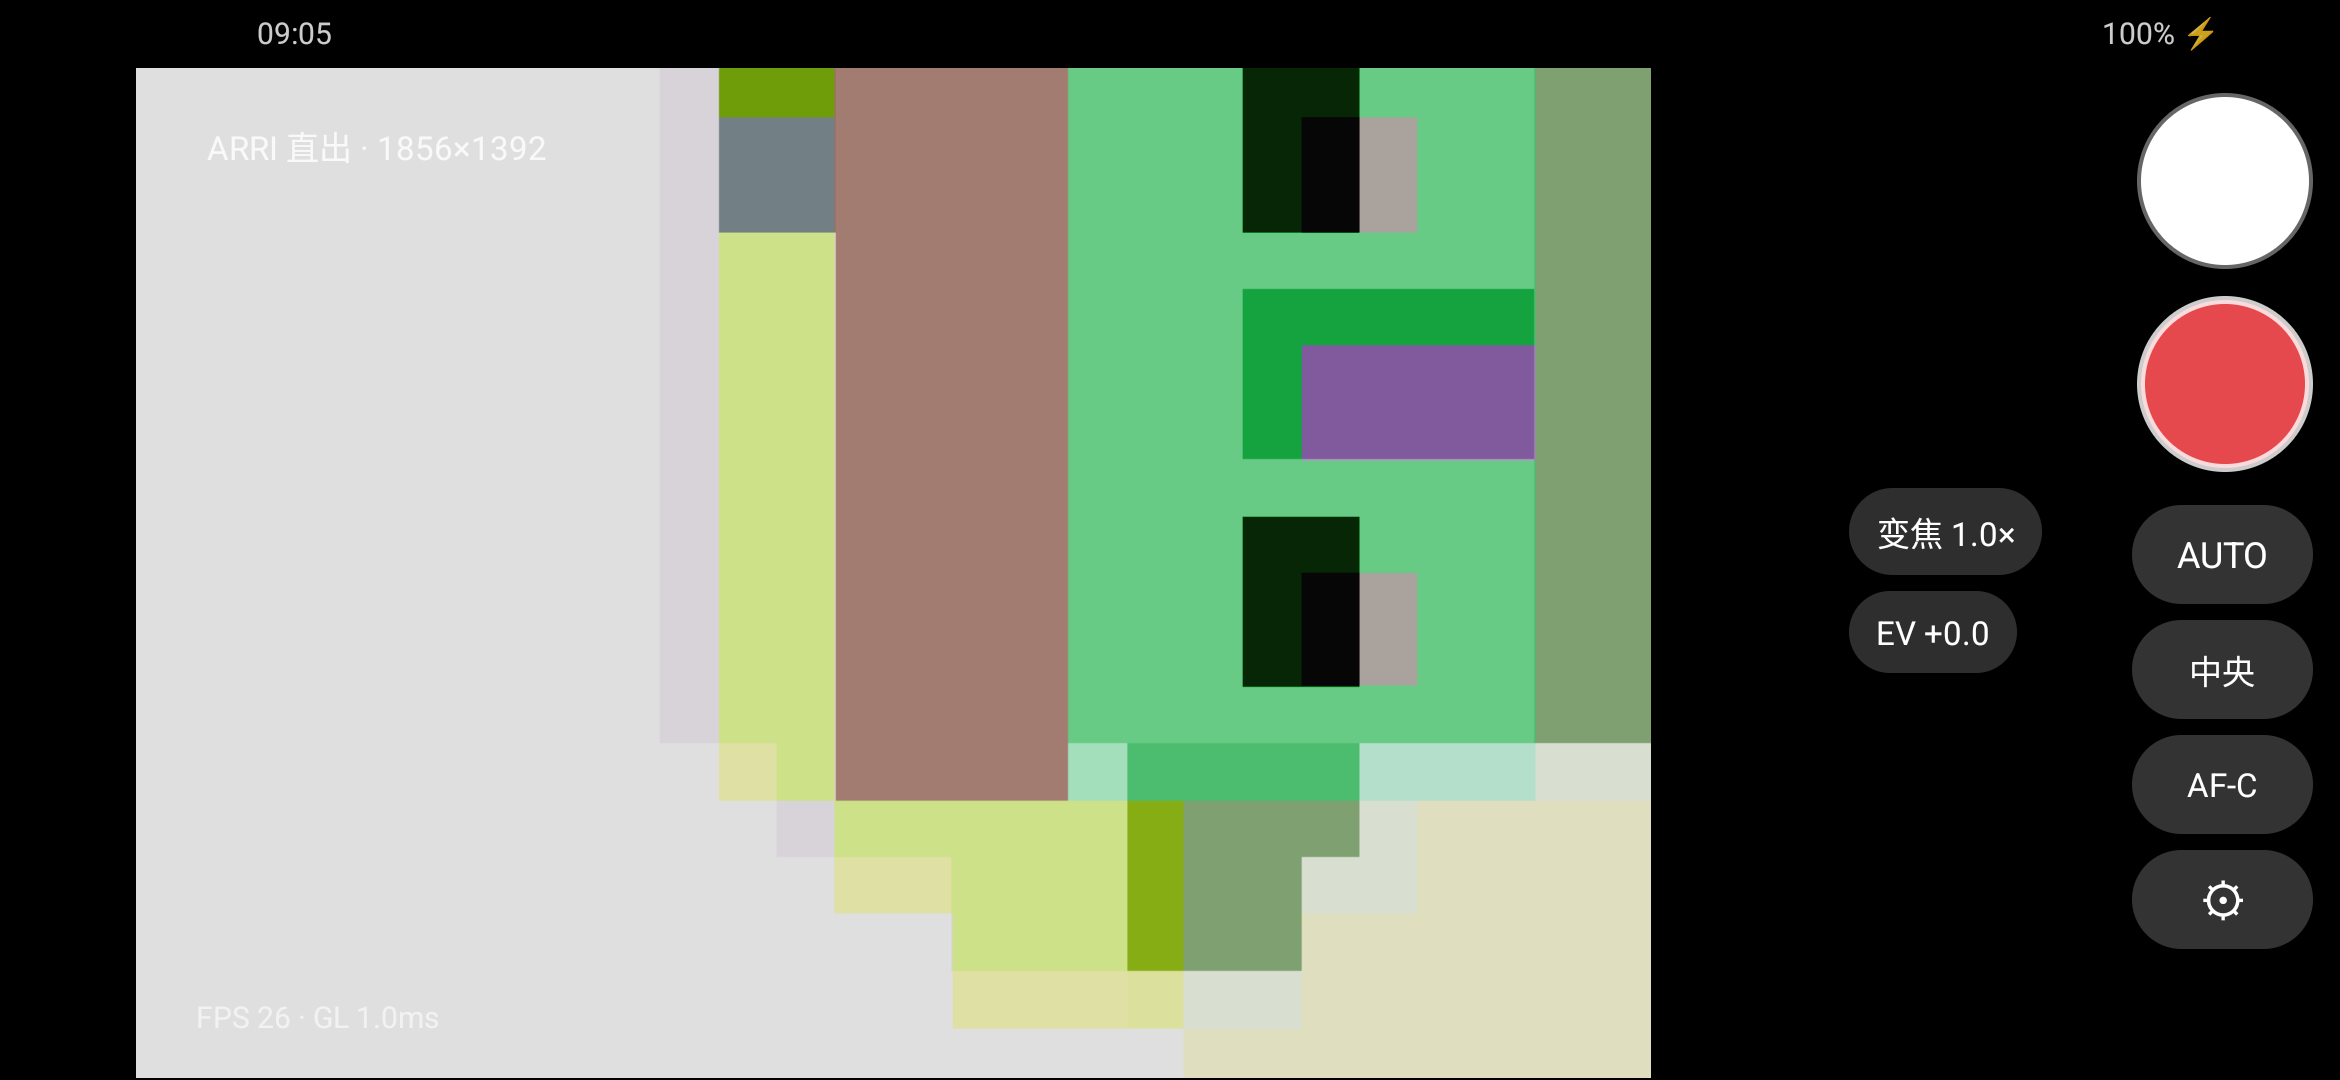
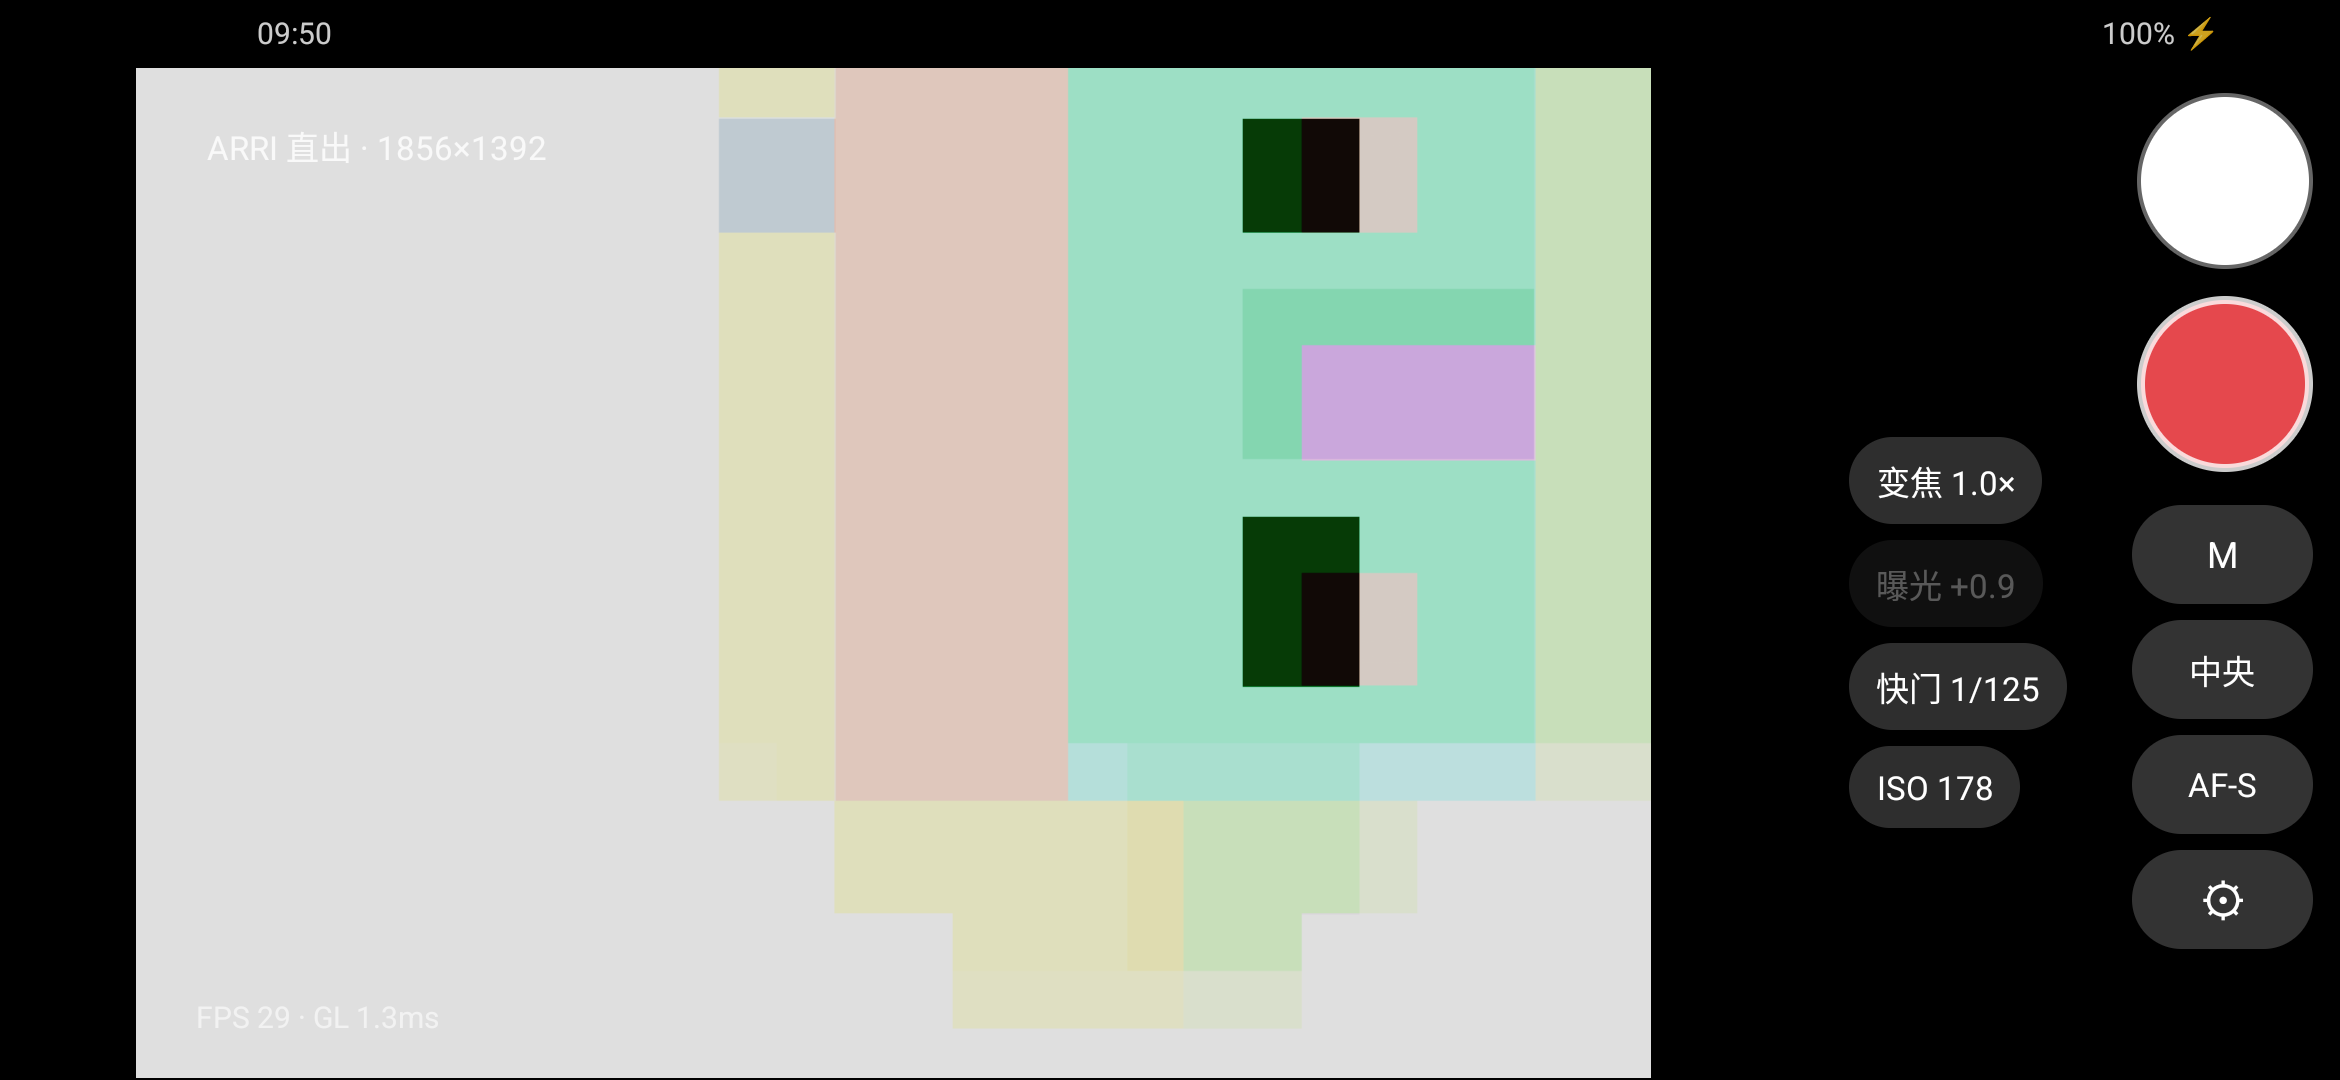
Lume: 四个数值按钮常驻（AUTO 全灰），切档不位移，MF 按钮占位不顶动下面四个

diff --git a/lume/app/src/main/java/com/magirri/lume/MainActivity.kt b/lume/app/src/main/java/com/magirri/lume/MainActivity.kt
@@ -594,7 +594,7 @@ class MainActivity : Activity() {
             textSize = 11f
             setPadding(dp(9), dp(8), dp(9), dp(8))
         }
-        mfBtn.visibility = View.GONE          // 只有 MF 档才出现
+        mfBtn.visibility = View.INVISIBLE     // 默认不可见但占位：四个按钮位置不会动
         valueCol.addView(
             mfBtn,
             LinearLayout.LayoutParams(
@@ -1008,7 +1008,7 @@ class MainActivity : Activity() {
         val f = FOCUS_MODES[focusIndex]
         camera.setFocusMode(f)
         focusBtn.text = FOCUS_NAMES[focusIndex]
-        mfBtn.visibility = if (f == CameraEngine.Focus.MF) View.VISIBLE else View.GONE
+        mfBtn.visibility = if (f == CameraEngine.Focus.MF) View.VISIBLE else View.INVISIBLE
         if (openWheelKind == MF && f != CameraEngine.Focus.MF) closeWheel()
         updateWheelButtons()
     }
@@ -1051,58 +1051,40 @@ class MainActivity : Activity() {
         }
         val c = camera.controls
 
-        zoomBtn.visibility = View.VISIBLE
-        zoomBtn.alpha = if (c.hasZoom) 1f else 0.35f
-        zoomDial.isEnabled = c.hasZoom
+        // 四个数值按钮**永远都在**，位置固定不变：切档只改可用状态，不隐藏、不重排
+        for (b in listOf(zoomBtn, evBtn, shutterBtn, isoBtn)) b.visibility = View.VISIBLE
+
+        // AUTO 全自动：四个都只读（灰、点不开）
+        val autoMode = mode == CameraEngine.Mode.AUTO
+        fun setEnabled(b: TextView, w: WheelView, on: Boolean) {
+            b.alpha = if (on) 1f else 0.35f
+            b.isEnabled = on
+            w.isEnabled = on
+        }
+
+        setEnabled(zoomBtn, zoomDial, !autoMode && c.hasZoom)
+        setEnabled(evBtn, evDial, !autoMode && mode != CameraEngine.Mode.M && c.hasEv)
+        setEnabled(shutterBtn, shutterWheel, !autoMode)
+        setEnabled(isoBtn, isoWheel, !autoMode && mode == CameraEngine.Mode.M)
 
         when (mode) {
             CameraEngine.Mode.AUTO -> {
-                shutterBtn.visibility = View.GONE
-                isoBtn.visibility = View.GONE
-                evBtn.visibility = View.VISIBLE
-                evBtn.alpha = 1f
-                evBtn.isEnabled = true
-                evDial.isEnabled = c.hasEv
                 evDial.caption = "EV"
                 evDial.format = { v -> String.format("%+.1f", evFromValue(v)) }
-                evDial.value = if (c.hasEv && c.evMax > c.evMin) {
-                    ((camera.evIndex - c.evMin).toFloat() / (c.evMax - c.evMin)).coerceIn(0f, 1f)
-                } else 0.5f
             }
 
             CameraEngine.Mode.S -> {
-                shutterBtn.visibility = View.VISIBLE
-                isoBtn.visibility = View.VISIBLE
-                isoBtn.alpha = 0.35f          // S 档 ISO 只显示，按钮置灰点不开
-                isoBtn.isEnabled = false
-                isoWheel.isEnabled = false
-                shutterWheel.isEnabled = true
                 shutterWheel.value = shutterValueFromNs(camera.manualShutterNs)
                 isoWheel.value = isoValueFromIso(camera.sModeIso)
-
-                evBtn.visibility = View.VISIBLE
-                evBtn.alpha = 1f
-                evBtn.isEnabled = true
-                evDial.isEnabled = c.hasEv
                 evDial.caption = "EV"
                 evDial.format = { v -> String.format("%+.1f", evFromValue(v)) }
                 lastEv = evFromValue(evDial.value)
             }
 
             CameraEngine.Mode.M -> {
-                shutterBtn.visibility = View.VISIBLE
-                isoBtn.visibility = View.VISIBLE
-                isoBtn.alpha = 1f
-                isoBtn.isEnabled = true
-                isoWheel.isEnabled = true
-                shutterWheel.isEnabled = true
                 shutterWheel.value = shutterValueFromNs(camera.manualShutterNs)
                 isoWheel.value = isoValueFromIso(camera.manualIso)
-
-                evBtn.visibility = View.VISIBLE
-                evBtn.alpha = 0.35f           // M 档 EV 只是指示器，按钮置灰
-                evBtn.isEnabled = false
-                evDial.isEnabled = false
+                // M 档 EV 只是曝光指示器
                 evDial.caption = "曝光"
                 evDial.format = { v -> String.format("%+.1f", v * 4f - 2f) }
             }
